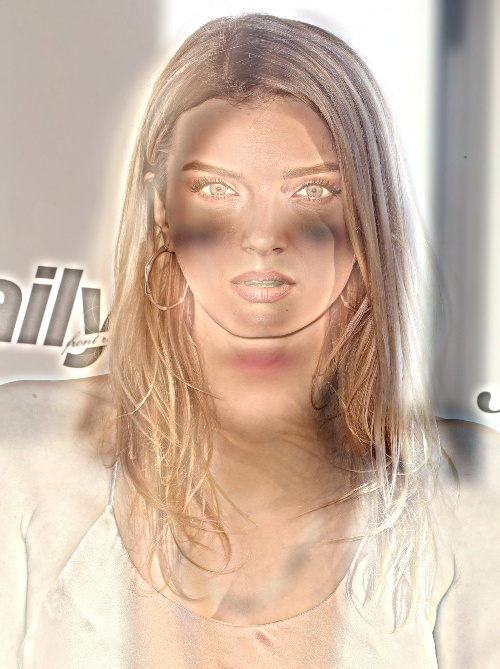
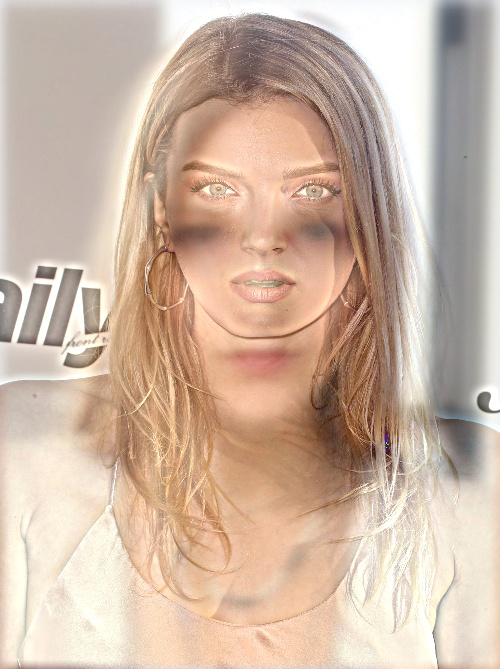
finish myConv

diff --git a/MAIN.py b/MAIN.py
@@ -7,7 +7,7 @@ SRC1 = "./images/Dorothea.jpg"
 SRC2 = "./images/Lily.jpg"
 OUTPUT_GAUSSIAN = "./result/result_gaussian.jpg"
 OUTPUT_FFT = "./result/result_fft.jpg"
-RADIUS = 10
+RADIUS = 9
 SIGMA_GAUSSIAN = 10
 SIGMA_FFT = 0.98
 
@@ -32,7 +32,7 @@ class MAIN():
 
 
 
-
+    #获取卷积核
     def getFilter(self,radius,sigma):
         window = np.zeros((radius * 2 + 1, radius * 2 + 1))
         for i in range(-radius, radius + 1):
@@ -41,18 +41,27 @@ class MAIN():
                 window[i + radius][j + radius] = self.get_cv(r, sigma)
         return window / np.sum(window)
 
+
+    #自定义卷积函数
+    def myConv(self,src,filter):
+        result = np.array(src,dtype = np.uint16)
+        result = np.pad(result,((RADIUS,RADIUS),(RADIUS,RADIUS),(0,0)),'constant',constant_values=0)
+        h,w,d = src.shape
+        for i in range(d):
+            for j in range(h):
+                for k in range(w):
+                    result[RADIUS + j, RADIUS + k, i] = np.sum(np.multiply(result[j : j + 2 * RADIUS + 1,k : k + 2 * RADIUS + 1, i] , filter))
+        return result[RADIUS:h + RADIUS,RADIUS:w + RADIUS,:]
+
+
+
+
     def myGaussian(self,src):
         myFilter = self.getFilter(RADIUS,SIGMA_GAUSSIAN)
-        print(myFilter)
-        # trans = np.zeros(src.shape,np.uint8)
-        print(src)
+        #opencv自带卷积操作
         trans = cv.filter2D(src,3,myFilter)
-        print(trans)
-        return trans
-        # cv.imwrite("result.jpg",trans)
-        # print(trans)
-        # cv.imshow("result",trans)
-        # cv.waitKey()
+        #使用自定义卷积核
+        return self.myConv(src,myFilter)
 
     #自定义傅里叶变换,src为待操作图像
     def myFFT(self,src):
@@ -105,7 +114,6 @@ class MAIN():
 
         #反傅里叶变换
         img_back = self.myIFFT(trans1 + trans2)
-        print(img_back)
         cv.imwrite(OUTPUT_FFT,img_back)
 
 
